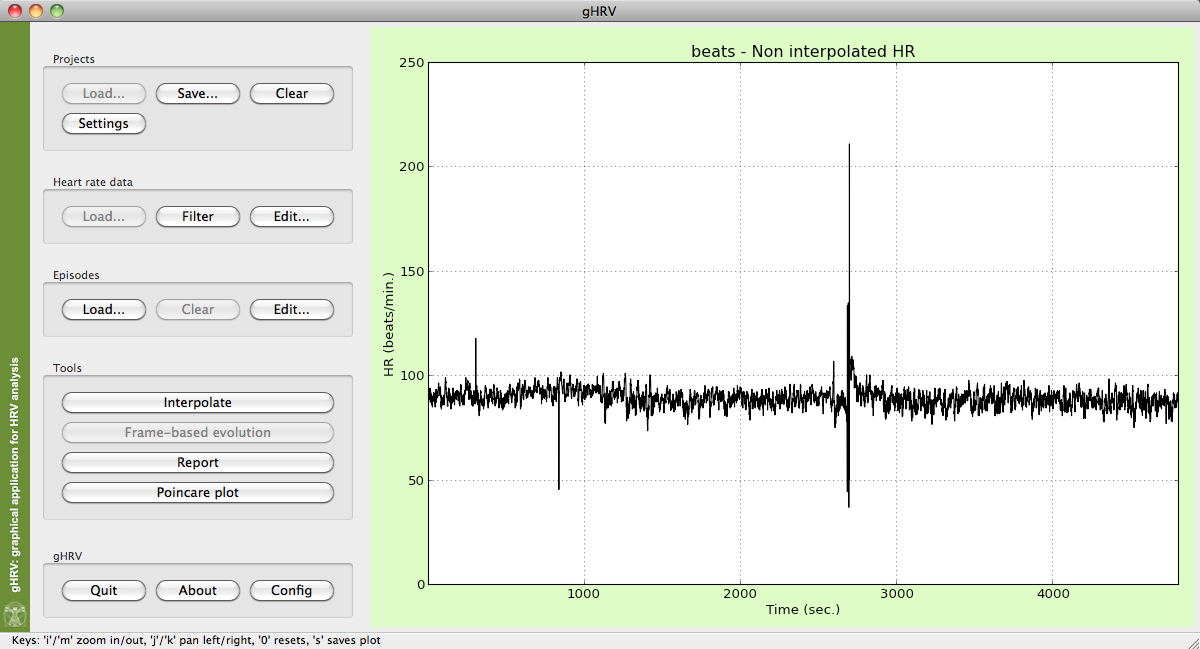
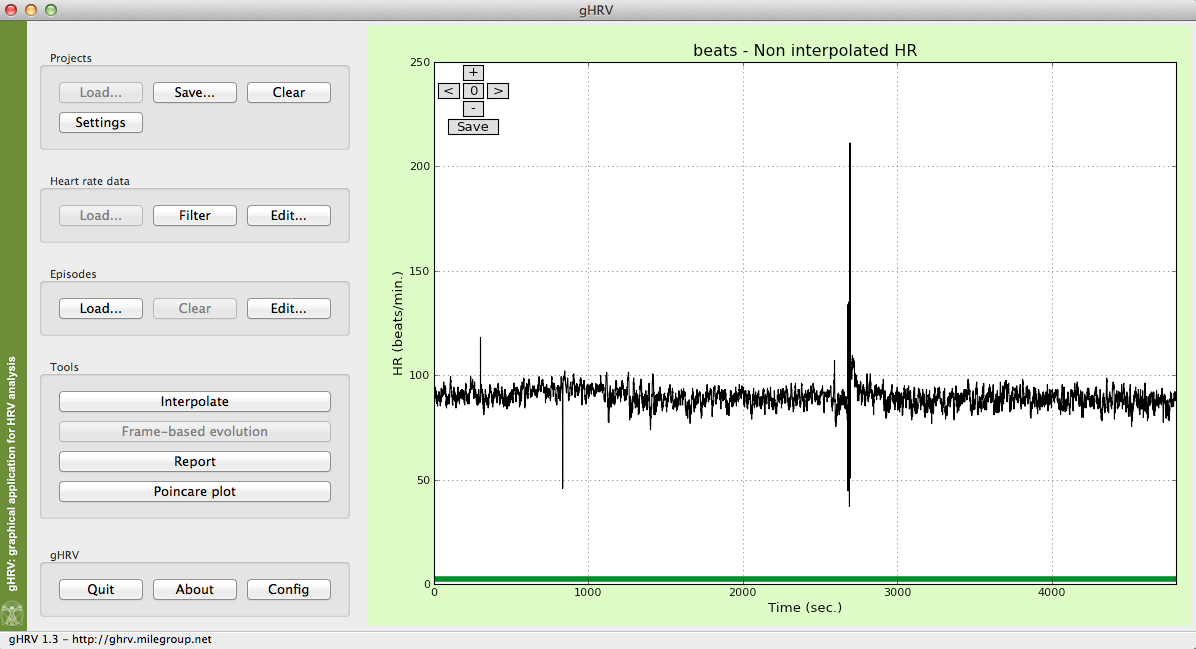
Doc updated to version 1.3

diff --git a/doc.html b/doc.html
@@ -133,7 +133,7 @@
 
         <p>Previous to the installation of <strong>gHRV</strong>, you should download it from <a href="http://milegroup.github.com/ghrv/packages.html">http://milegroup.github.com/ghrv/packages.html</a>. <strong>gHRV</strong> is distributed as free software (GNU GPL) and binaries for Windows, MacOSX and Debian/Ubuntu systems are provided as well.</p>
 
-        <p>For downloading <strong>gHRV</strong>, select the corresponding version for you operating system. Different versions are avalaible. Version 1.1 is a stable and recommended version, that will be explained in this Manual. In this documentation, X and YY refer to the version and the subversion of the <strong>gHRV</strong> program.</p>
+        <p>For downloading <strong>gHRV</strong>, select the corresponding version for you operating system. Different versions are avalaible. Version 1.3 is a stable and recommended version, that will be explained in this Manual. In this documentation, X and YY refer to the version and the subversion of the <strong>gHRV</strong> program.</p>
 
         <p>Appart from the binaries for the different operating systems, you can also download the source code (explained later in this Section), and example files, among others:</p>
         <p><ul>
@@ -289,10 +289,10 @@
         <img src="docfigures/Figure12.jpg" class="screenshot"/>
         <p class="imgtxt">I<strong>gHRV</strong> project retrieved from SimpleProjectgHRVfile</p>       
 
-        <p>At the bottom of the image, several command options are also displayed.</p>
+        <p>In the upper left corner of the graph area, options for zooming or reducing the graph, or for displacing the signal points along the time axis can be observed.</p>
 
         <img src="docfigures/Figure13.jpg" class="screenshot"/>
-        <p class="imgtxt">Command options for excuting <strong>gHRV</strong> commands</p>   
+        <p class="imgtxt">Command options for excuting <strong>gHRV</strong> commands</p>     
         
         <p>These functions allow the user to manipulate the graphical representation and to exports plots that can be used in other programs. Exporting formats are jpg, png, pdf, svg, tif and eps (avalaibility of some of these formats depends on the operating system).</p>   
 
